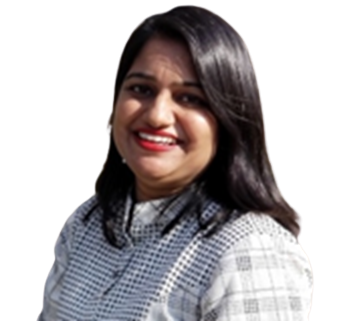
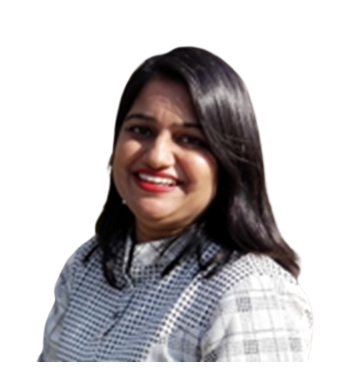
m

Changed region(s): [[0.087, 0.0, 0.8696, 1.0], [0.8696, 0.81, 0.8986, 0.8723], [0.8406, 0.7788, 0.8696, 0.81]]

diff --git a/mainPage.html b/mainPage.html
@@ -722,9 +722,9 @@
                     </article>
                 </div>
 
-                
 
-               
+
+
 
                 <div class="col-md-4 col-sm-6 col-xs-12">
                     <article class="material-card Amber">
@@ -808,7 +808,7 @@
                 </div> -->
 
 
-                
+
             </div>
         </div>
     </section>
@@ -820,54 +820,26 @@
     <section class="container card" data-filter="Dummy">
         <div class="center-align">
             <div class="row row-img active-with-click">
+
                 <div class="col-md-4 col-sm-6 col-xs-12">
                     <article class="material-card Brown">
                         <h2>
-                            <span>Dr. Namrata Kkommineni</span>
+                            <span>Prof Bhavesh Patel</span>
                             <strong>
-                         <!-- <i class="fa fa-fw fa-star"></i> -->
-                        Project Co-ordinator 
-                    </strong>
+             <!-- <i class="fa fa-fw fa-star"></i> -->
+             Principal
+        </strong>
                         </h2>
                         <div class="mc-content">
                             <div class="img-container">
-                                <img class="img-responsive" src="Images/Namrata_Manglani.png">
+                                <img class="img-responsive" src="Images/Picture1.jpg">
                             </div>
                             <div class="mc-description">
-                                I have more than 14 years of teaching experience coupled with more than 6 years of research experience. I completed my PhD in theoretical high energy particle physics from the University department of Physics Mumbai University. I am very passionate about
-                                teaching and enjoy teaching intricate problems in a simple manner. I am equally enthusiastic about knowing the why of things because I believe that learning never ends.
                                 <div class="card-footer center-align">
-                                    <a href="https://www.linkedin.com/in/dr-namrata-manglani-468a9135/?originalSubdomain=in" class="fa fa-fw fa-linkedin"></a>
-                                    <a href="mailto:namrata.manglani@sakec.ac.in" class="fa fa-fw fa-google-plus"></a>
+                                    <a href="https://www.linkedin.com/in/aruna-sharma-1aa66834/?originalSubdomain=in" class="fa fa-fw fa-linkedin"></a>
+                                    <a href="mailto:aruna.sharma@sakec.ac.in" class="fa fa-fw fa-google-plus"></a>
                                 </div>
                             </div>
-                        </div>
-                        <a class="mc-btn-action">
-                            <i class="fa fa-bars"></i>
-                        </a>
-                    </article>
-                </div>
-                <div class="col-md-4 col-sm-6 col-xs-12">
-                    <article class="material-card Purple">
-                        <h2>
-                            <span>Dr. Archana Nath</span>
-                            <strong>
-                         <!-- <i class="fa fa-fw fa-star"></i> -->
-                        EC-I Project Co-ordinator
-                    </strong>
-                        </h2>
-                        <div class="mc-content">
-                            <div class="img-container">
-                                <img class="img-responsive" src="Images/Archana_Nath.png">
-                            </div>
-                            <div class="mc-description">
-                                "Ph. D - Biosensor based on conducting polymer. (IIT Bombay) Publication in National Journal-1 Publication In International Journal-3 Teaching experience- 12 years Area Of Interest: Conducting Polymer, Development of Sensors and Nanotechnology"
-                                <div class="card-footer center-align">
-                                    <a href="https://www.linkedin.com/in/archana-nath-61a568143/?lipi=urn%3Ali%3Apage%3Ad_flagship3_feed%3BJrI6lI5aRsSXibrZdMOjxw%3D%3D" class="fa fa-fw fa-linkedin"></a>
-                                    <a href="mailto:archana.nath@sakec.ac.in" class="fa fa-fw fa-google-plus"></a>
-                                </div>
-                            </div>
-
                         </div>
                         <a class="mc-btn-action">
                             <i class="fa fa-bars"></i>
@@ -878,21 +850,20 @@
                 <div class="col-md-4 col-sm-6 col-xs-12">
                     <article class="material-card Amber">
                         <h2>
-                            <span>Neelam Jagtap</span>
+                            <span>ARUNA SHARMA</span>
                             <strong>
-                         <!-- <i class="fa fa-fw fa-star"></i> -->
-                         Assistant Professor
-                    </strong>
+             <!-- <i class="fa fa-fw fa-star"></i> -->
+             Assistant Professor
+             </strong>
                         </h2>
                         <div class="mc-content">
                             <div class="img-container">
-                                <img class="img-responsive" src="Images/NEELAM_JAGTAP.png">
+                                <img class="img-responsive" src="Images/Aruna maam.jpeg">
                             </div>
                             <div class="mc-description">
-                                Passionate about learning and dissemination of information Good at teamwork and communication.
                                 <div class="card-footer center-align">
-                                    <a href="https://www.linkedin.com/in/neelam-jagtap-96b492138" class="fa fa-fw fa-linkedin"></a>
-                                    <a href="mailto:neelam.jagtap@sakec.ac.in" class="fa fa-fw fa-google-plus"></a>
+                                    <a href="https://www.linkedin.com/in/aruna-sharma-1aa66834/?originalSubdomain=in" class="fa fa-fw fa-linkedin"></a>
+                                    <a href="mailto:aruna.sharma@sakec.ac.in" class="fa fa-fw fa-google-plus"></a>
                                 </div>
                             </div>
                         </div>
@@ -902,7 +873,59 @@
                     </article>
                 </div>
 
-                
+
+                <div class="col-md-4 col-sm-6 col-xs-12">
+                    <article class="material-card Red">
+                        <h2>
+                            <span>Dr. Nilakshi Jain</span>
+                            <strong>
+             <!-- <i class="fa fa-fw fa-star"></i> -->
+             Assistant Professor
+             </strong>
+                        </h2>
+                        <div class="mc-content">
+                            <div class="img-container">
+                                <img class="img-responsive" src="Images/Picture3.png">
+                            </div>
+                            <div class="mc-description">
+                                <div class="card-footer center-align">
+                                    <a href="https://www.linkedin.com/in/dr-nilakshi-jain-7593a264/" class="fa fa-fw fa-linkedin"></a>
+                                    <a href="mailto:nilakshi.jain@sakec.ac.in" class="fa fa-fw fa-google-plus"></a>
+                                </div>
+                            </div>
+                        </div>
+                        <a class="mc-btn-action">
+                            <i class="fa fa-bars"></i>
+                        </a>
+                    </article>
+                </div>
+
+                <div class="col-md-4 col-sm-6 col-xs-12">
+                    <article class="material-card Brown">
+                        <h2>
+                            <span>Abdul Wajid Khan</span>
+                            <strong>
+             <!-- <i class="fa fa-fw fa-star"></i> -->
+             Assistant Professor
+             </strong>
+                        </h2>
+                        <div class="mc-content">
+                            <div class="img-container">
+                                <img class="img-responsive" src="Images/Picture2.png">
+                            </div>
+                            <div class="mc-description">
+                                <div class="card-footer center-align">
+                                    <a href="https://www.linkedin.com/in/abdul-wajid-khan-0036127a/" class="fa fa-fw fa-linkedin"></a>
+                                    <a href="mailto:registrar@sakec.ac.in" class="fa fa-fw fa-google-plus"></a>
+                                </div>
+                            </div>
+                        </div>
+                        <a class="mc-btn-action">
+                            <i class="fa fa-bars"></i>
+                        </a>
+                    </article>
+                </div>
+
             </div>
         </div>
     </section>
